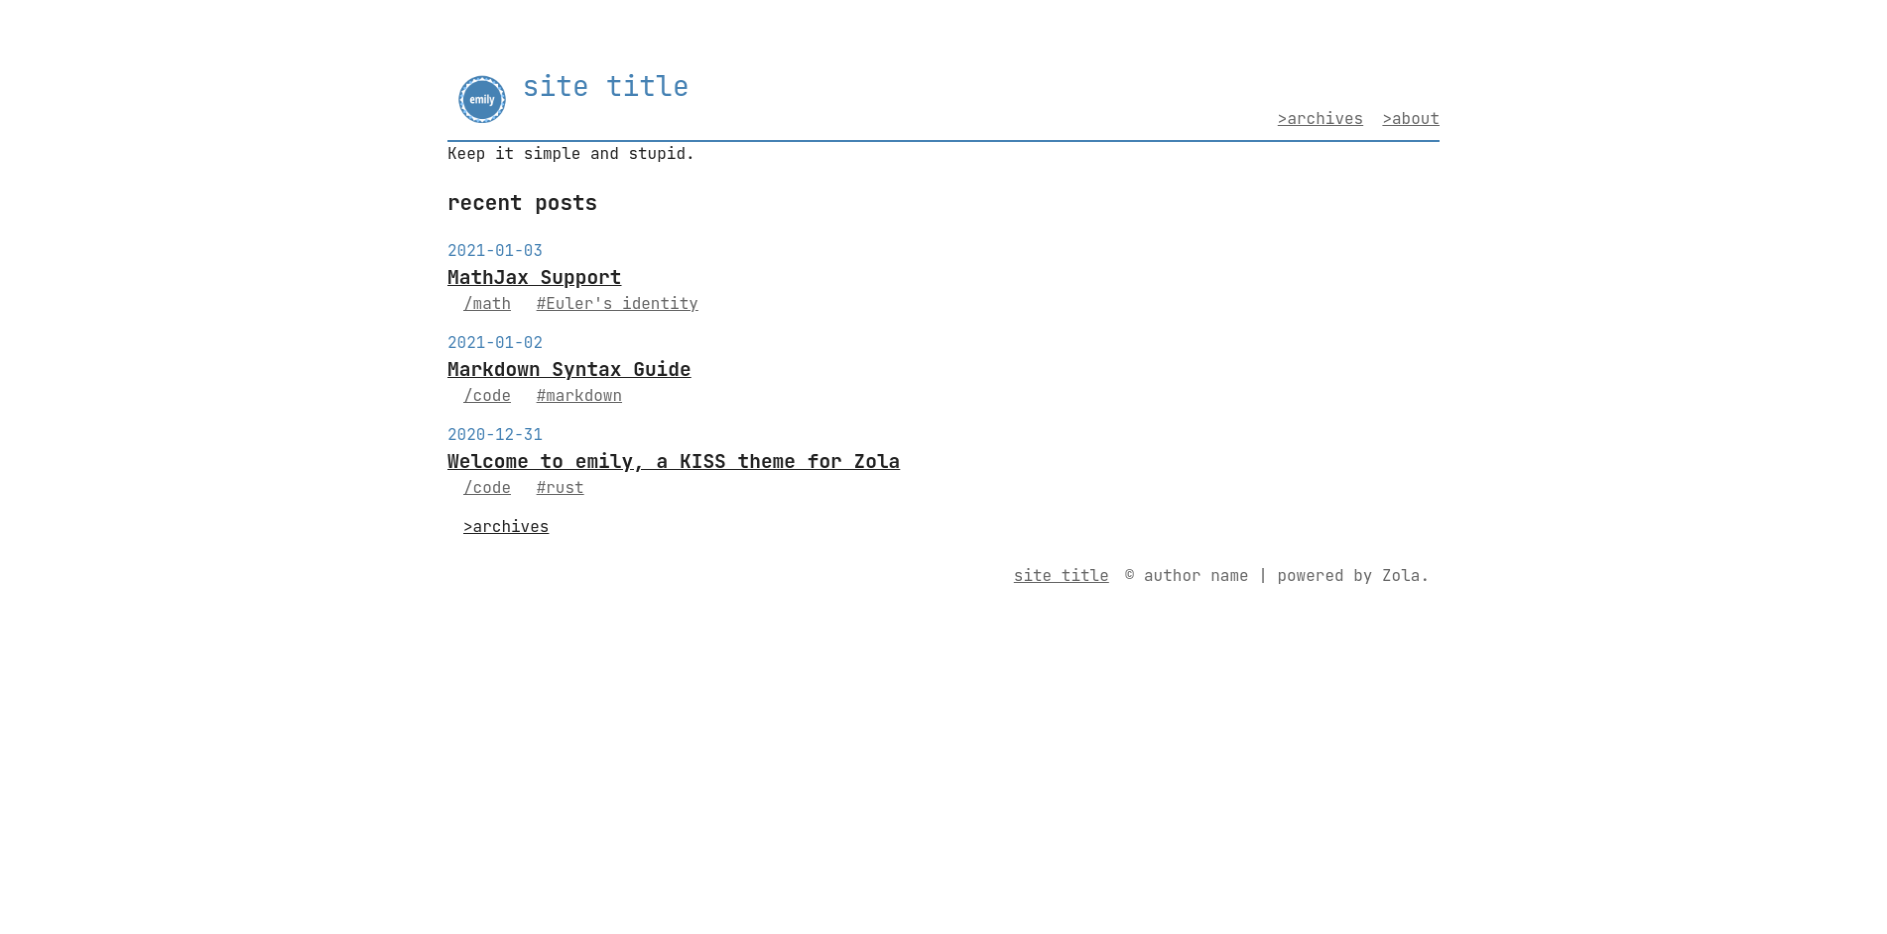
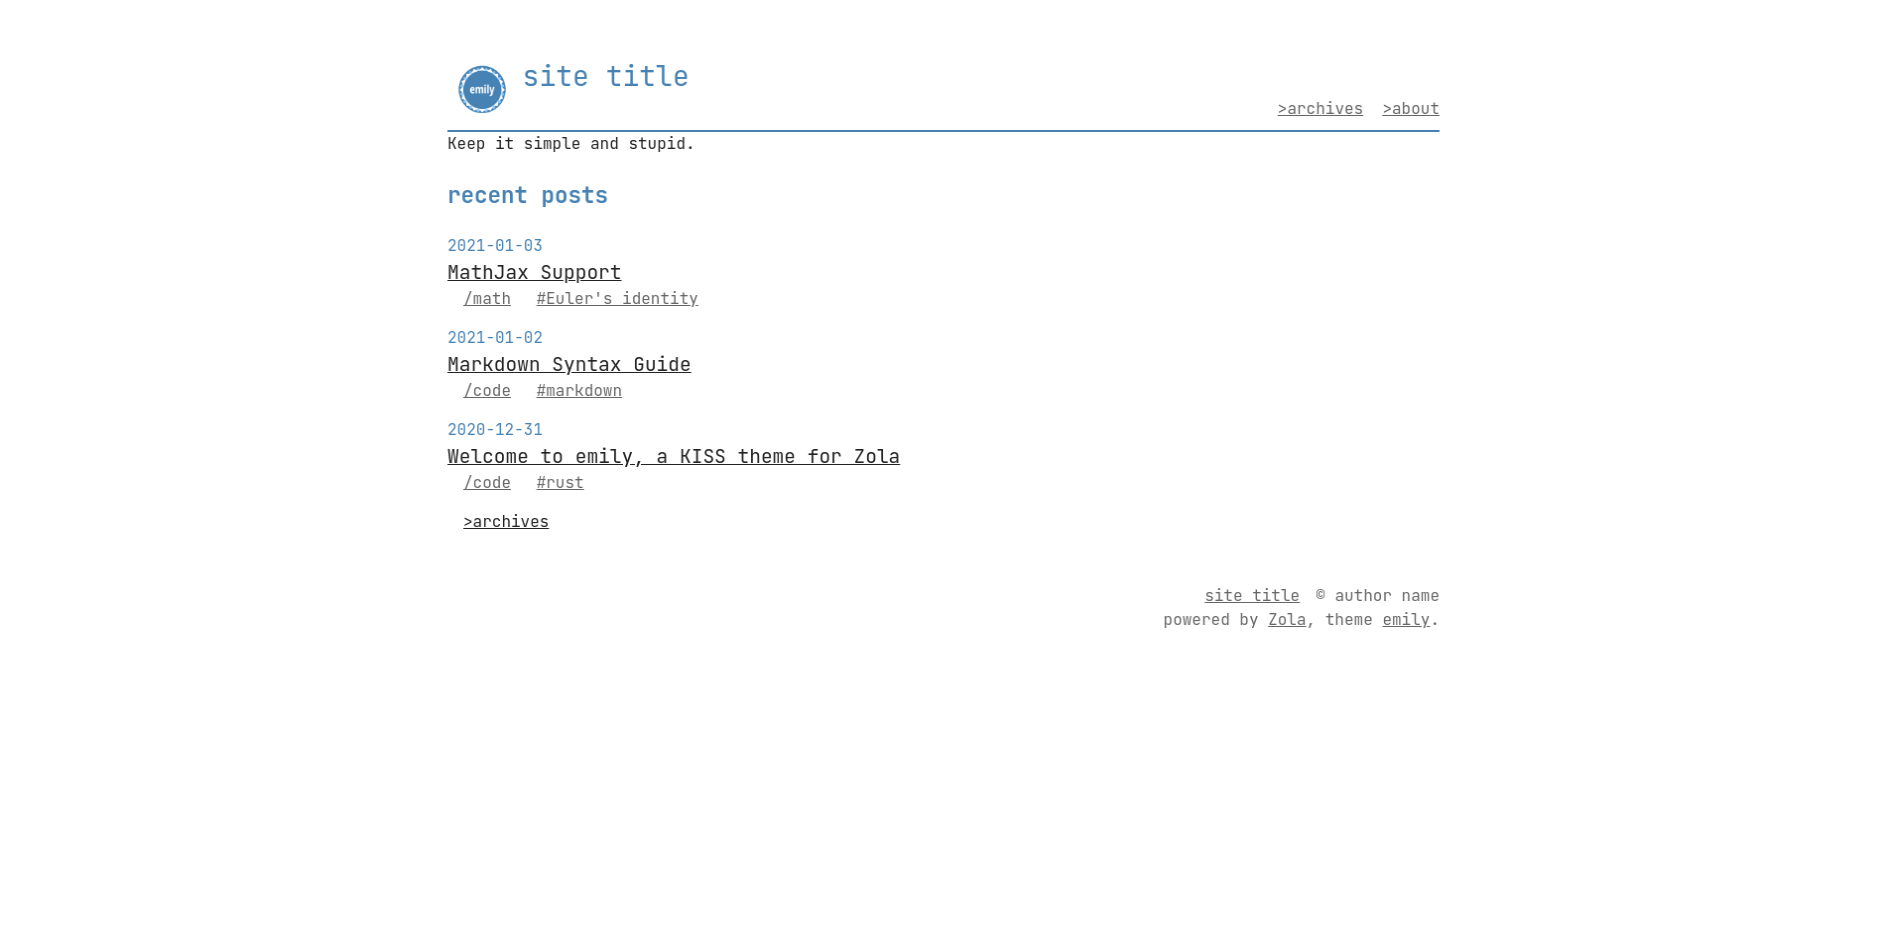
update public

Changed region(s): [[0.2152, 0.0621, 0.7684, 0.5899], [0.6147, 0.5899, 0.7684, 0.6831], [0.5533, 0.5899, 0.584, 0.621]]

diff --git a/public/main.css b/public/main.css
@@ -1,1 +1,1 @@
-html{font-size:15px}body{line-height:1.5;color:#222;font-family:monospace;width:80%;min-width:200px;max-width:1000px;margin:0 auto;padding-top:40px;padding-bottom:40px}@media (max-width: 480px){body{width:90%}}body img,body video{display:block;margin:0 auto;max-width:90%}body ul{margin-left:1rem;padding-left:1rem}body a{text-decoration:underline}.title{color:#4682b4;font-size:1.3rem}.date{color:#4682b4}.archive_title{font-size:1rem}.taxonomies a{color:#666}.header{color:#666;background-color:white;top:0;padding-bottom:5px;border-bottom:solid 2px #4682b4;overflow:hidden}.header a{color:#666}.header nav{margin:0 0 0 auto}.header ul{list-style:none;display:flex;margin:0}.header li{margin:0 0 0 1rem}.header img{min-width:20px;min-height:20px;float:left}.footer{color:#666;text-align:right;margin-top:50px;padding-top:0px}.footer a{color:#666}a{text-decoration:none;color:#222}a .taxonomies{color:#666}h1{font-size:2.2rem;color:#4682b4}h2{font-size:2.0rem;color:#4682b4}h3{font-size:1.5rem;color:#4682b4}h4{font-size:1.3rem}h5{font-size:1.2rem}h6{font-size:1.1rem}h1,h2,h3,h4,h5,h6{font-weight:bold}pre{overflow-x:scroll;overflow-y:hidden}:not(pre)>code{background-color:#eff1f5}blockquote{border-left:8px solid #4682b4;padding:0.5rem;margin:1rem}.site_title{color:#4682b4;font-size:3vmin}.site_title a{text-decoration:none;color:#4682b4}.menu{text-align:right}
+html{font-size:15px}body{line-height:1.5;color:#222;font-family:monospace;width:80%;min-width:200px;max-width:1000px;margin:0 auto;padding-top:40px;padding-bottom:40px}body img,body video{display:block;margin:0 auto;max-width:90%}body ul{margin-left:1rem;padding-left:1rem}body a{color:#222;text-decoration:underline}@media (max-width: 480px){body{width:90%}}.header{color:#666;background-color:white;top:0;padding-bottom:5px;border-bottom:solid 2px #4682b4;overflow:hidden}.header a{color:#666}.header nav{margin:0 0 0 auto}.header ul{list-style:none;display:flex;margin:0}.header li{margin:0 0 0 1rem}.header img{min-width:20px;min-height:20px;float:left}.site_title{font-size:3vmin}.site_title a{color:#222;text-decoration:none}.menu{text-align:right}.date{color:#4682b4}.title{color:#4682b4;font-size:1.3rem}.title a{text-decoration:none}.archive_title{font-size:1rem}.archive_title a{text-decoration:none}.taxonomies a{color:#666;text-decoration:none}.footer{color:#666;text-align:right;margin-top:50px;padding-top:0px}.footer a{color:#666}h1{font-size:2.2rem;color:#4682b4}h2{font-size:2.0rem;color:#4682b4}h3{font-size:1.5rem;color:#4682b4}h4{font-size:1.3rem}h5{font-size:1.2rem}h6{font-size:1.1rem}h1,h2,h3,h4,h5,h6{font-weight:bold}pre{overflow-x:scroll;overflow-y:hidden}:not(pre)>code{background-color:#eff1f5}blockquote{border-left:8px solid #4682b4;padding:0.5rem;margin:1rem}
